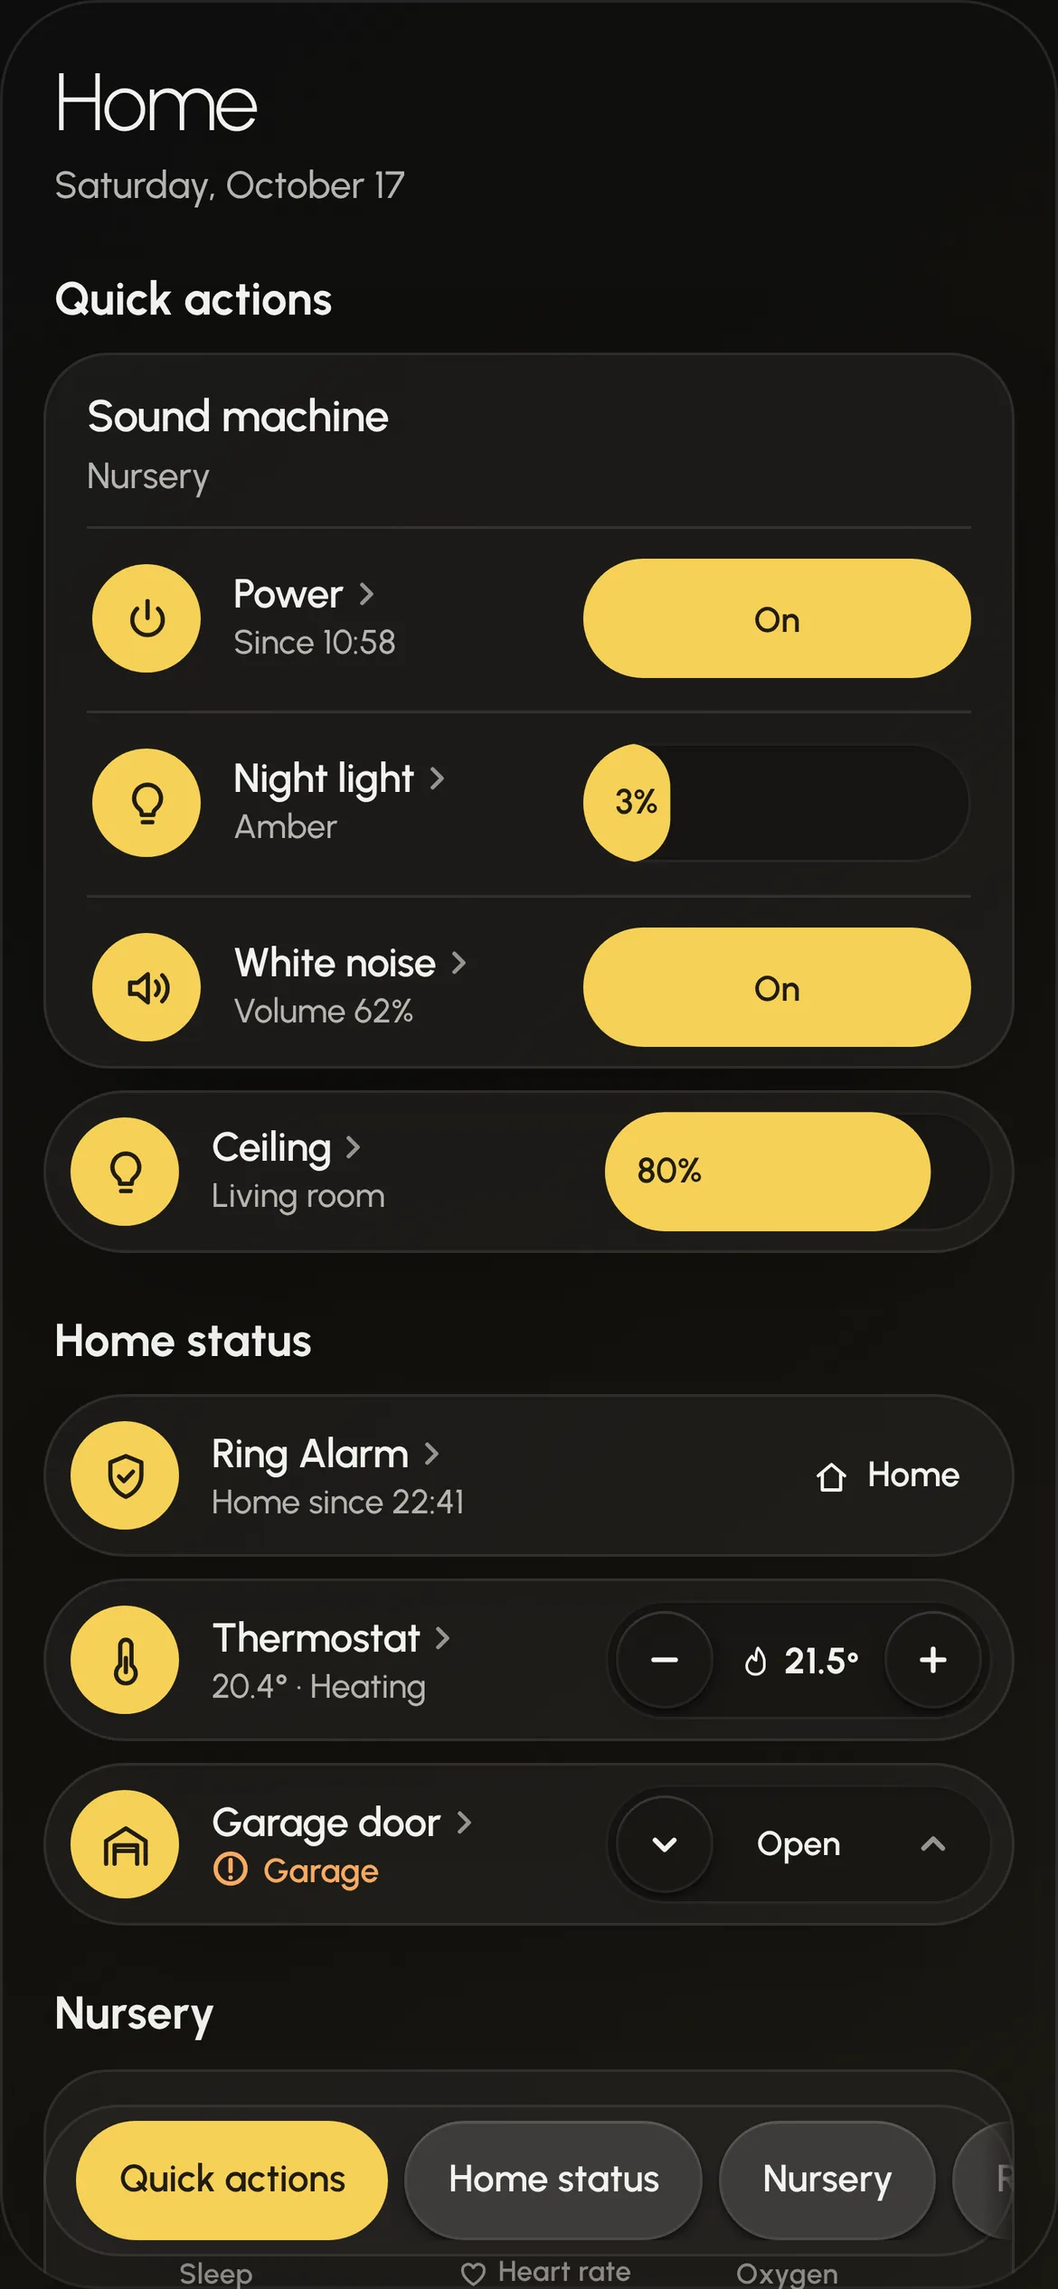
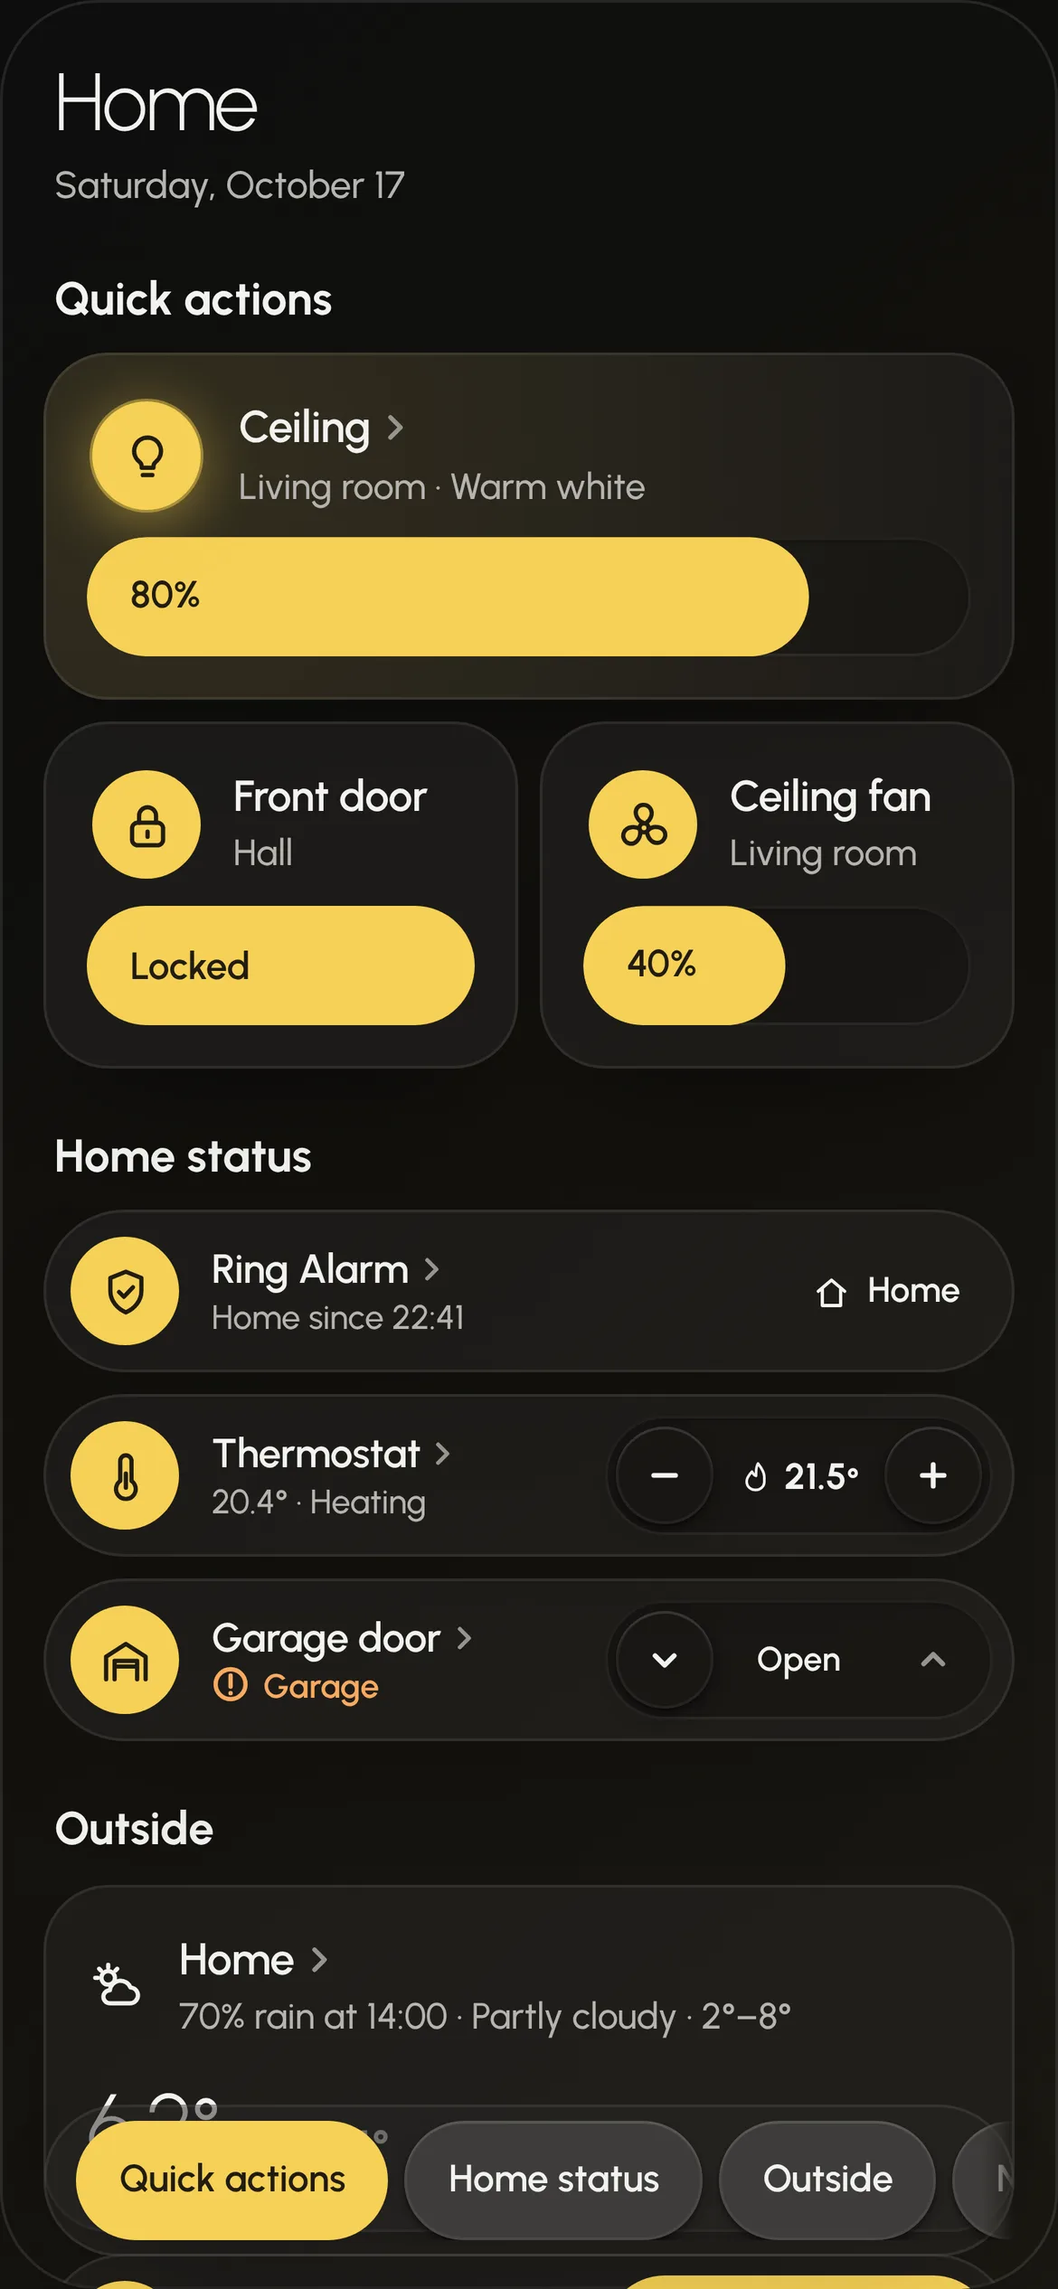
Storybook: rebuild Orb's and Field's example dashboards around a wider mix of cards
The phone examples, which the site's home page runs live, now open on a light,
a lock, a fan, the alarm, the heating, the garage door and the weather in Orb,
and on whole modules with their faders and keys under each place in Field, with
a docked nav. Tablet and wall panel examples draw the lock, fan and humidifier
too. The site's phone stills are retaken and the skins page's captions updated.

Claude-Session: https://claude.ai/code/session_01L9PcQKmk8MyDggqXLAfcNM

diff --git a/src/skins/field/dashboards/Examples.stories.tsx b/src/skins/field/dashboards/Examples.stories.tsx
@@ -1,7 +1,9 @@
 import type { Meta, StoryObj } from "@storybook/react";
-import { useState } from "react";
+import { useRef, useState } from "react";
 import type { ReactNode } from "react";
 import { FieldPage, Area, Areas } from "./layout";
+import { NavBar } from "./NavBar";
+import { useScrollSpy } from "@dashhaus/core/hooks";
 import type { FieldFootprint } from "../shared/ui";
 import { LightModule } from "../cards/light/LightModule";
 import { LIGHT_SEEDS, useDemoLight } from "@dashhaus/core/seeds/light";
@@ -33,6 +35,12 @@ import type { AlarmSeedName } from "@dashhaus/core/seeds/alarm";
 import { OwletModule } from "../cards/owlet/OwletModule";
 import { OWLET_SEEDS } from "@dashhaus/core/seeds/owlet";
 import type { OwletSeedName } from "@dashhaus/core/seeds/owlet";
+import { FanModule } from "../cards/fan/FanModule";
+import { FAN_SEEDS, useDemoFan } from "@dashhaus/core/seeds/fan";
+import type { FanSeedName } from "@dashhaus/core/seeds/fan";
+import { LockModule } from "../cards/lock/LockModule";
+import { LOCK_SEEDS, useDemoLock } from "@dashhaus/core/seeds/lock";
+import type { LockSeedName } from "@dashhaus/core/seeds/lock";
 
 /*
  * Examples of composing a field page, one per device. They show the composition rules (spec/field.md → Dashboards),
@@ -109,6 +117,25 @@ function Alarm({ seed, footprint, ...own }: Placed & { seed: AlarmSeedName }) {
   const demo = useDemoAlarm(ALARM_SEEDS[seed]);
   return <AlarmModule entity={placed(demo.entity, own)} history={demo.history} onArm={demo.onArm} onDisarm={demo.onDisarm} footprint={footprint} />;
 }
+function Fan({ seed, footprint, ...own }: Placed & { seed: FanSeedName }) {
+  const demo = useDemoFan(FAN_SEEDS[seed]);
+  return (
+    <FanModule
+      entity={placed(demo.entity, own)}
+      history={demo.history}
+      onToggle={demo.onToggle}
+      onPercentageChange={demo.onPercentageChange}
+      onPresetChange={demo.onPresetChange}
+      onOscillateChange={demo.onOscillateChange}
+      onDirectionChange={demo.onDirectionChange}
+      footprint={footprint}
+    />
+  );
+}
+function Lock({ seed, footprint, ...own }: Placed & { seed: LockSeedName }) {
+  const demo = useDemoLock(LOCK_SEEDS[seed]);
+  return <LockModule {...demo} entity={placed(demo.entity, own)} footprint={footprint} />;
+}
 /** An Owlet sock; its base station switches locally. */
 function Owlet({ seed, footprint, ...own }: Placed & { seed: OwletSeedName }) {
   const { entity, history } = OWLET_SEEDS[seed];
@@ -127,53 +154,73 @@ const meta = {
 export default meta;
 type Story = StoryObj<typeof meta>;
 
-/** The phone's page: what is pressed most first, each plate keeping its own room, then the nursery, then the rooms. */
-function PhonePage({ footprint, sock }: { footprint: FieldFootprint; sock: OwletSeedName }) {
-  const f = { footprint };
+const PHONE_AREAS = [["living", "Living room"], ["entrance", "Entrance"], ["nursery", "Nursery"], ["outside", "Outside"], ["rooms", "Rooms"]] as const;
+
+/**
+ * The phone's page, a place an area: each leads with its one whole module, the one pressed or read most, its fader or
+ * keys in reach, and takes 64 px rows under it, as a wall panel's column does; the rooms' air is rows alone. The nav
+ * docked at the bottom jumps to each area and keeps the one being read down.
+ */
+function PhonePage({ sock }: { sock: OwletSeedName }) {
+  const page = useRef<HTMLDivElement>(null);
+  const [reading, jump] = useScrollSpy(page);
+  const nav = <NavBar items={PHONE_AREAS.map(([id, label]) => ({ key: id, label, kind: "section", current: reading === id, onSelect: () => jump(id) }))} />;
+  const row = { footprint: "compact" } as const;
   return (
-    <FieldPage title="Home" now={NOW}>
-      <Area title="Quick" {...f}>
-        <Light seed="dimmable" {...f} />
-        <Toggle seed="dnd" {...f} />
-        <Alarm seed="disarmed" {...f} />
-        <Cover seed="garage" {...f} />
+    <FieldPage title="Home" now={NOW} pageRef={page} nav={nav}>
+      <Area id="living" title="Living room">
+        <Light seed="dimmable" area="Living room" />
+        <Climate seed="heating" area="Living room" {...row} />
+        <Fan seed="ceiling" area="Living room" {...row} />
+        <Cover seed="curtains" area="Living room" {...row} />
       </Area>
-      <Area title="Nursery" {...f}>
-        <Owlet seed={sock} area="Nursery" {...f} />
-        <Light seed="nightLight" area="Nursery" {...f} />
-        <Sound seed="on" area="Nursery" {...f} />
-        <Humidifier seed="on" area="Nursery" name="Humidifier" {...f} />
+      <Area id="entrance" title="Entrance">
+        <Lock seed="locked" area="Entrance" />
+        <Alarm seed="disarmed" area="Entrance" {...row} />
+        <Cover seed="garage" area="Entrance" {...row} />
+        <Light seed="onOff" area="Entrance" {...row} />
       </Area>
-      <Area title="Rooms" {...f}>
-        <Sensor seed="living" {...f} />
-        <Sensor seed="bathroom" {...f} />
-        <Sensor seed="basement" {...f} />
-        <Sensor seed="outdoor" {...f} />
+      <Area id="nursery" title="Nursery">
+        <Owlet seed={sock} area="Nursery" />
+        <Light seed="nightLight" area="Nursery" {...row} />
+        <Sound seed="on" area="Nursery" {...row} />
+        <Humidifier seed="on" area="Nursery" name="Humidifier" {...row} />
+      </Area>
+      <Area id="outside" title="Outside">
+        <Weather seed="partly" name="Weather" />
+        <Sensor seed="outdoor" area="Outside" name="Air" {...row} />
+      </Area>
+      <Area id="rooms" title="Rooms" footprint="compact">
+        <Sensor seed="living" {...row} />
+        <Sensor seed="bedroom" {...row} />
+        <Sensor seed="bathroom" {...row} />
+        <Sensor seed="basement" {...row} />
       </Area>
     </FieldPage>
   );
 }
 
-/** Phone: every module a 64 px row, so the house reads in about one screen: the four things pressed most, the
-    nursery, then each room's air. A row's key, name and screen line up down the column whatever the card. */
+/** Phone: a place an area, each led by its whole module (the living room's light, the front door, the sock, the
+    weather) with 64 px rows under it, so the first screen holds a fader, a lock's keys and seven kinds of module. A
+    row's key, name and screen line up down the column whatever the card. */
 export const Phone: Story = {
   render: () => (
     <Device label="Phone" width={390} height={844}>
-      <PhonePage footprint="compact" sock="deep" />
+      <PhonePage sock="deep" />
     </Device>
   ),
 };
 
-/** Tablet, landscape: whole modules, an area a row of four, so every fader and today's meter is in reach;
-    the living room first, then the nursery, then outside. */
+/** Tablet, landscape: whole modules, an area a row of four, so every fader, key and today's meter is in reach; the
+    living room first, then the nursery and the entrance, then the outside beside the whole home's modes. */
 export const Tablet: Story = {
   render: () => (
     <Device label="Tablet, landscape" width={1180} height={820}>
       <FieldPage title="Home" now={NOW} showTime>
         <Area title="Living room">
           <Light seed="dimmable" area="Living room" />
-          <Light seed="dimmableOff" area="Living room" />
           <Climate seed="heating" area="Living room" />
+          <Fan seed="ceiling" area="Living room" />
           <Cover seed="curtains" area="Living room" />
         </Area>
         <Area title="Nursery">
@@ -182,12 +229,22 @@ export const Tablet: Story = {
           <Sound seed="on" area="Nursery" />
           <Humidifier seed="on" area="Nursery" name="Humidifier" />
         </Area>
-        <Area title="Outside">
-          <Weather seed="partly" name="Weather" />
-          <Sensor seed="outdoor" area="Outside" name="Air" />
-          <Light seed="onOff" area="Outside" />
-          <Cover seed="garage" area="Outside" />
+        <Area title="Entrance">
+          <Lock seed="locked" area="Entrance" />
+          <Alarm seed="disarmed" area="Entrance" />
+          <Cover seed="garage" area="Entrance" />
+          <Light seed="onOff" area="Entrance" />
         </Area>
+        <Areas columns={2}>
+          <Area title="Outside">
+            <Weather seed="partly" name="Weather" />
+            <Sensor seed="outdoor" area="Outside" name="Air" />
+          </Area>
+          <Area title="Whole home">
+            <Toggle seed="dnd" area="Whole home" />
+            <Toggle seed="guest" area="Whole home" />
+          </Area>
+        </Areas>
       </FieldPage>
     </Device>
   ),
@@ -201,8 +258,8 @@ function WallPage({ viewing }: { viewing?: "far" }) {
         <Area title="Living room">
           <Light seed="dimmable" area="Living room" />
           <Climate seed="heating" area="Living room" />
+          <Fan seed="ceiling" area="Living room" footprint="compact" />
           <Cover seed="curtains" area="Living room" footprint="compact" />
-          <Sensor seed="living" name="Air" footprint="compact" />
         </Area>
         <Area title="Nursery">
           <Owlet seed="deep" area="Nursery" />
@@ -212,8 +269,8 @@ function WallPage({ viewing }: { viewing?: "far" }) {
         </Area>
         <Area title="Whole home">
           <Alarm seed="away" area="Whole home" />
+          <Lock seed="locked" area="Whole home" footprint="compact" />
           <Toggle seed="dnd" area="Whole home" footprint="compact" />
-          <Toggle seed="guest" area="Whole home" footprint="compact" />
           <Cover seed="garage" area="Whole home" footprint="compact" />
         </Area>
         <Area title="Outside">
@@ -248,13 +305,13 @@ export const WallPanelFar: Story = {
   ),
 };
 
-/** Phone, whole modules, the sock's alarm below the fold: the module stays in its place in the nursery, and the alert
-    line under the header names it on the first screen; a tap opens the sock's panel. Nothing moves to make room. */
+/** Phone, the sock's alarm below the fold: the module stays in its place in the nursery, and the alert line under the
+    header names it on the first screen; a tap opens the sock's panel. Nothing moves to make room. */
 export const PhoneAlarm: Story = {
   name: "Phone, alarm below the fold",
   render: () => (
     <Device label="Phone" width={390} height={844}>
-      <PhonePage footprint="standard" sock="critical" />
+      <PhonePage sock="critical" />
     </Device>
   ),
 };

diff --git a/src/skins/orb/dashboards/Examples.stories.tsx b/src/skins/orb/dashboards/Examples.stories.tsx
@@ -8,10 +8,12 @@ import { DemoLightTile as Light } from "../cards/light/demo/DemoLightTile";
 import { DemoClimateTile as Climate } from "../cards/climate/demo/DemoClimateTile";
 import { DemoSensorTile as Sensor } from "../cards/sensor/demo/DemoSensorTile";
 import { DemoWeatherTile as Weather } from "../cards/weather/demo/DemoWeatherTile";
-import { DemoToggleTile as Toggle } from "../cards/toggle/demo/DemoToggleTile";
 import { DemoCoverTile as Cover } from "../cards/cover/demo/DemoCoverTile";
 import { DemoAlarmTile as Alarm } from "../cards/alarm/demo/DemoAlarmTile";
 import { DemoOwletTile as Owlet } from "../cards/owlet/demo/DemoOwletTile";
+import { DemoLockTile as Lock } from "../cards/lock/demo/DemoLockTile";
+import { DemoFanTile as Fan } from "../cards/fan/demo/DemoFanTile";
+import { DemoHumidifierTile as Humidifier } from "../cards/humidifier/demo/DemoHumidifierTile";
 import { DemoBundle as Bundle } from "../bundles/demo/DemoBundle";
 
 /*
@@ -43,10 +45,11 @@ const meta = {
 export default meta;
 type Story = StoryObj<typeof meta>;
 
-const PHONE_SECTIONS = [["quick", "Quick actions"], ["status", "Home status"], ["nursery", "Nursery"], ["rooms", "Rooms"]] as const;
+const PHONE_SECTIONS = [["quick", "Quick actions"], ["status", "Home status"], ["outside", "Outside"], ["nursery", "Nursery"], ["rooms", "Rooms"]] as const;
 
-/** Phone: four frequent actions first (a bundle counts each member), then whole-home and nursery status,
-    then room readings. Compact controls and bundles keep the shared 60px rhythm. The nav docked at the bottom
+/** Phone: the things pressed most first (the living room's light, the front door and its fan), then the house at a
+    glance in compact rows, the weather, the nursery, then each room's air. Compact rows and bundles keep the shared
+    60px rhythm; no card is featured, so nothing outranks the first screen's controls. The nav docked at the bottom
     jumps to each section and marks the one being read. */
 function PhoneDashboard() {
   const page = useRef<HTMLDivElement>(null);
@@ -56,18 +59,23 @@ function PhoneDashboard() {
     <Device label="Phone" width={390} height={844}>
       <DashboardPage title="Home" now={NOW} pageRef={page} nav={nav}>
         <Section id="quick" title="Quick actions" columns={2}>
-          <Cell span={2}><Bundle bundle="nursery" /></Cell>
-          <Cell span={2}><Light light="dimmable" footprint="compact" /></Cell>
+          <Cell span={2}><Light light="dimmable" /></Cell>
+          <Lock seed="locked" />
+          <Fan seed="ceiling" />
         </Section>
         <Section id="status" title="Home status">
           <Alarm alarm="ring" readOnly footprint="compact" />
           <Climate unit="heating" footprint="compact" />
           <Cover cover="garage" footprint="compact" />
         </Section>
+        <Section id="outside" title="Outside">
+          <Weather weather="partly" />
+          <Light light="onOff" footprint="compact" />
+        </Section>
         <Section id="nursery" title="Nursery">
           <Owlet seed="deep" />
-          <Climate unit="nurseryDyson" footprint="compact" />
-          <Bundle bundle="sleep" />
+          <Bundle bundle="nursery" />
+          <Humidifier seed="on" name="Humidifier" area="Nursery" footprint="compact" />
         </Section>
         <Section id="rooms" title="Rooms" columns={2}>
           <Sensor sensor="living" />
@@ -82,8 +90,8 @@ function PhoneDashboard() {
 
 export const Phone: Story = { render: () => <PhoneDashboard /> };
 
-/** Tablet, landscape: the same four actions as the phone, one of them the hero, lead; household status (with the
-    upstairs heating as a lead bundle) and the nursery follow, then the outside and room glance. */
+/** Tablet, landscape: the hero light beside the nursery's sound machine; the house's status (the door, the alarm, the
+    upstairs heating as a lead bundle, the fan) beside the nursery; then the outside beside the room glance. */
 export const Tablet: Story = {
   render: () => (
     <Device label="Tablet, landscape" width={1180} height={820}>
@@ -94,13 +102,15 @@ export const Tablet: Story = {
         </Section>
         <Columns columns={2}>
           <Section title="Home status">
+            <Lock seed="locked" footprint="compact" />
             <Alarm alarm="ring" readOnly footprint="compact" />
             <Bundle bundle="upstairs" />
-            <Toggle mode="quiet" footprint="compact" />
+            <Fan seed="ceiling" footprint="compact" />
           </Section>
           <Section title="Nursery">
             <Owlet seed="deep" />
             <Bundle bundle="sleep" />
+            <Humidifier seed="on" name="Humidifier" area="Nursery" footprint="compact" />
           </Section>
         </Columns>
         <Columns columns={2}>
@@ -130,25 +140,30 @@ export const WallPanel: Story = {
         <Columns columns={4} gap={16}>
           <Section title="Living room">
             <Light light="dimmable" footprint="featured" />
-            <Cover cover="curtains" footprint="compact" />
             <Climate unit="heating" footprint="compact" />
+            <Fan seed="ceiling" footprint="compact" />
+            <Cover cover="curtains" footprint="compact" />
             <Sensor sensor="living" name="Air" />
           </Section>
-          <Section title="Bedroom and office">
+          <Section title="Bedroom">
             <Light light="dimmableNoWarmth" />
             <Bundle bundle="sleep" />
-            <Climate unit="cooling" />
+            <Climate unit="cooling" footprint="compact" />
+            <Fan seed="on" footprint="compact" />
+            <Humidifier seed="on" name="Humidifier" area="Bedroom" footprint="compact" />
             <Sensor sensor="bedroom" name="Air" />
           </Section>
           <Section title="Nursery">
             <Bundle bundle="nursery" />
             <Owlet seed="deep" />
+            <Climate unit="nurseryDyson" footprint="compact" />
           </Section>
           <Section title="Outside">
-            <Light light="onOff" />
-            <Cover cover="garage" footprint="compact" />
-            <Alarm alarm="ring" readOnly footprint="compact" />
             <Weather weather="partly" />
+            <Lock seed="locked" footprint="compact" />
+            <Alarm alarm="ring" readOnly footprint="compact" />
+            <Cover cover="garage" footprint="compact" />
+            <Light light="onOff" footprint="compact" />
           </Section>
         </Columns>
       </DashboardPage>
@@ -167,6 +182,7 @@ export const PhoneUngrouped: Story = {
           <Bundle bundle="sleep" />
           <Bundle bundle="nursery" />
           <Climate unit="heating" footprint="compact" />
+          <Lock seed="locked" footprint="compact" />
           <Cover cover="garage" footprint="compact" />
           <Sensor sensor="living" name="Air" />
           <Weather weather="partly" />

diff --git a/src/skins/orb/cards/humidifier/demo/DemoHumidifierTile.tsx b/src/skins/orb/cards/humidifier/demo/DemoHumidifierTile.tsx
@@ -12,11 +12,16 @@ export interface DemoHumidifierTileProps {
   /** Compact only: false hides the control; the row opens the detail sheet. */
   showControl?: boolean;
   defaultOpen?: boolean;
+  /** Override the humidifier's name. */
+  name?: string;
+  /** Override the area. */
+  area?: string;
 }
 
 /** A HumidifierTile wired to local demo state. */
-export function DemoHumidifierTile({ seed, width, footprint, showControl, defaultOpen }: DemoHumidifierTileProps) {
-  const demo = useDemoHumidifier((typeof seed === "string" ? HUMIDIFIER_SEEDS[seed] : seed));
+export function DemoHumidifierTile({ seed, width, footprint, showControl, defaultOpen, name, area }: DemoHumidifierTileProps) {
+  const given = typeof seed === "string" ? HUMIDIFIER_SEEDS[seed] : seed;
+  const demo = useDemoHumidifier(name || area ? { ...given, entity: { ...given.entity, ...(name ? { name } : {}), ...(area ? { area } : {}) } } : given);
   return (
     <div style={{ width, maxWidth: "100%" }}>
       <HumidifierTile {...demo} footprint={footprint} showControl={showControl} defaultOpen={defaultOpen} />

diff --git a/changes/the-storybook-example-dashboards-for-orb-and-field.md b/changes/the-storybook-example-dashboards-for-orb-and-field.md
@@ -1,0 +1,4 @@
+---
+type: internal
+---
+The Storybook example dashboards for Orb and Field draw a wider mix of cards; the humidifier's demo tile takes a name and an area.
